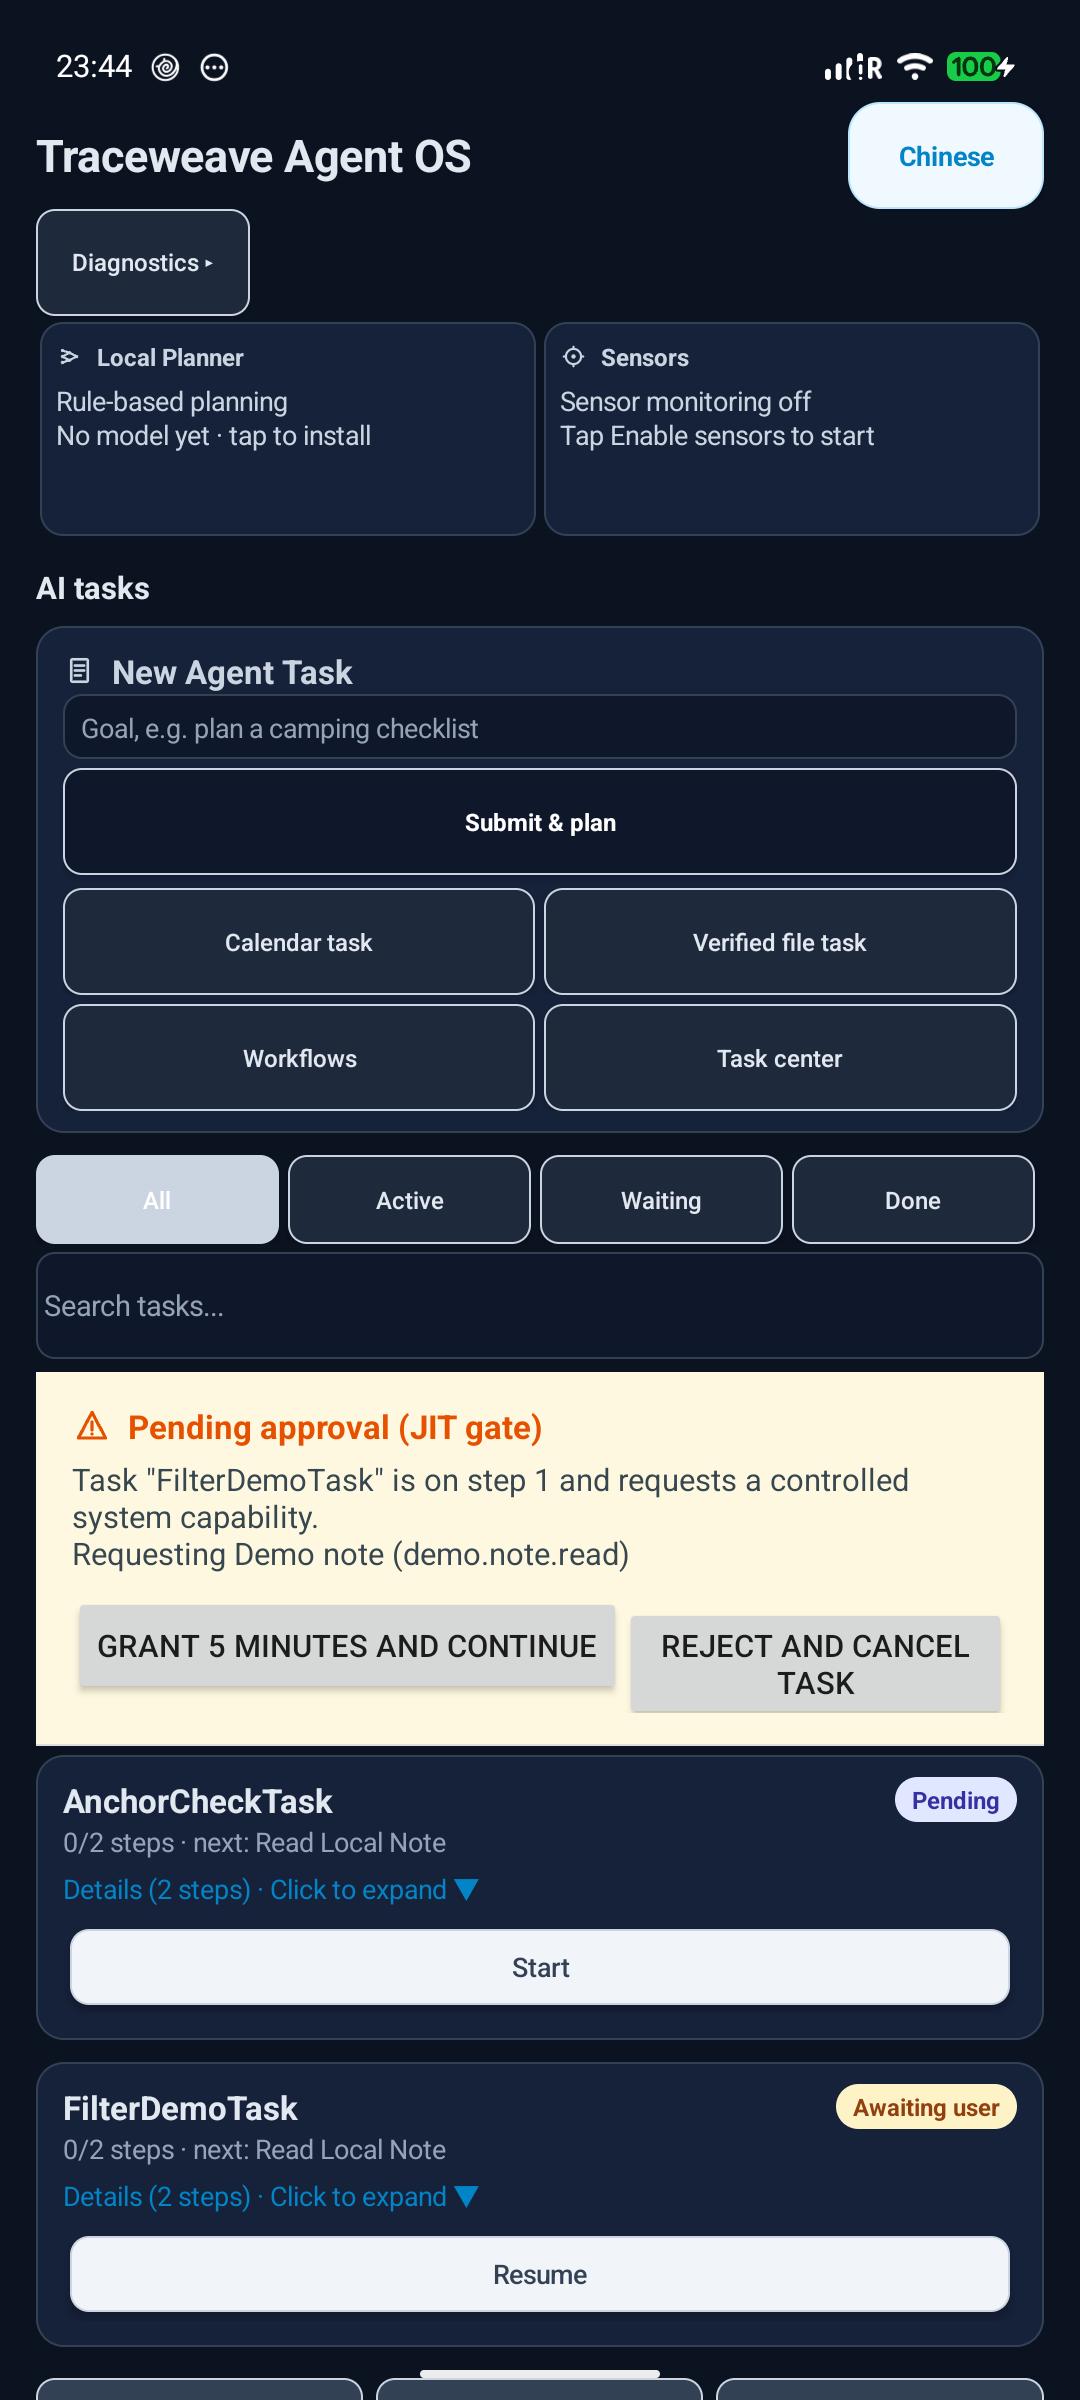
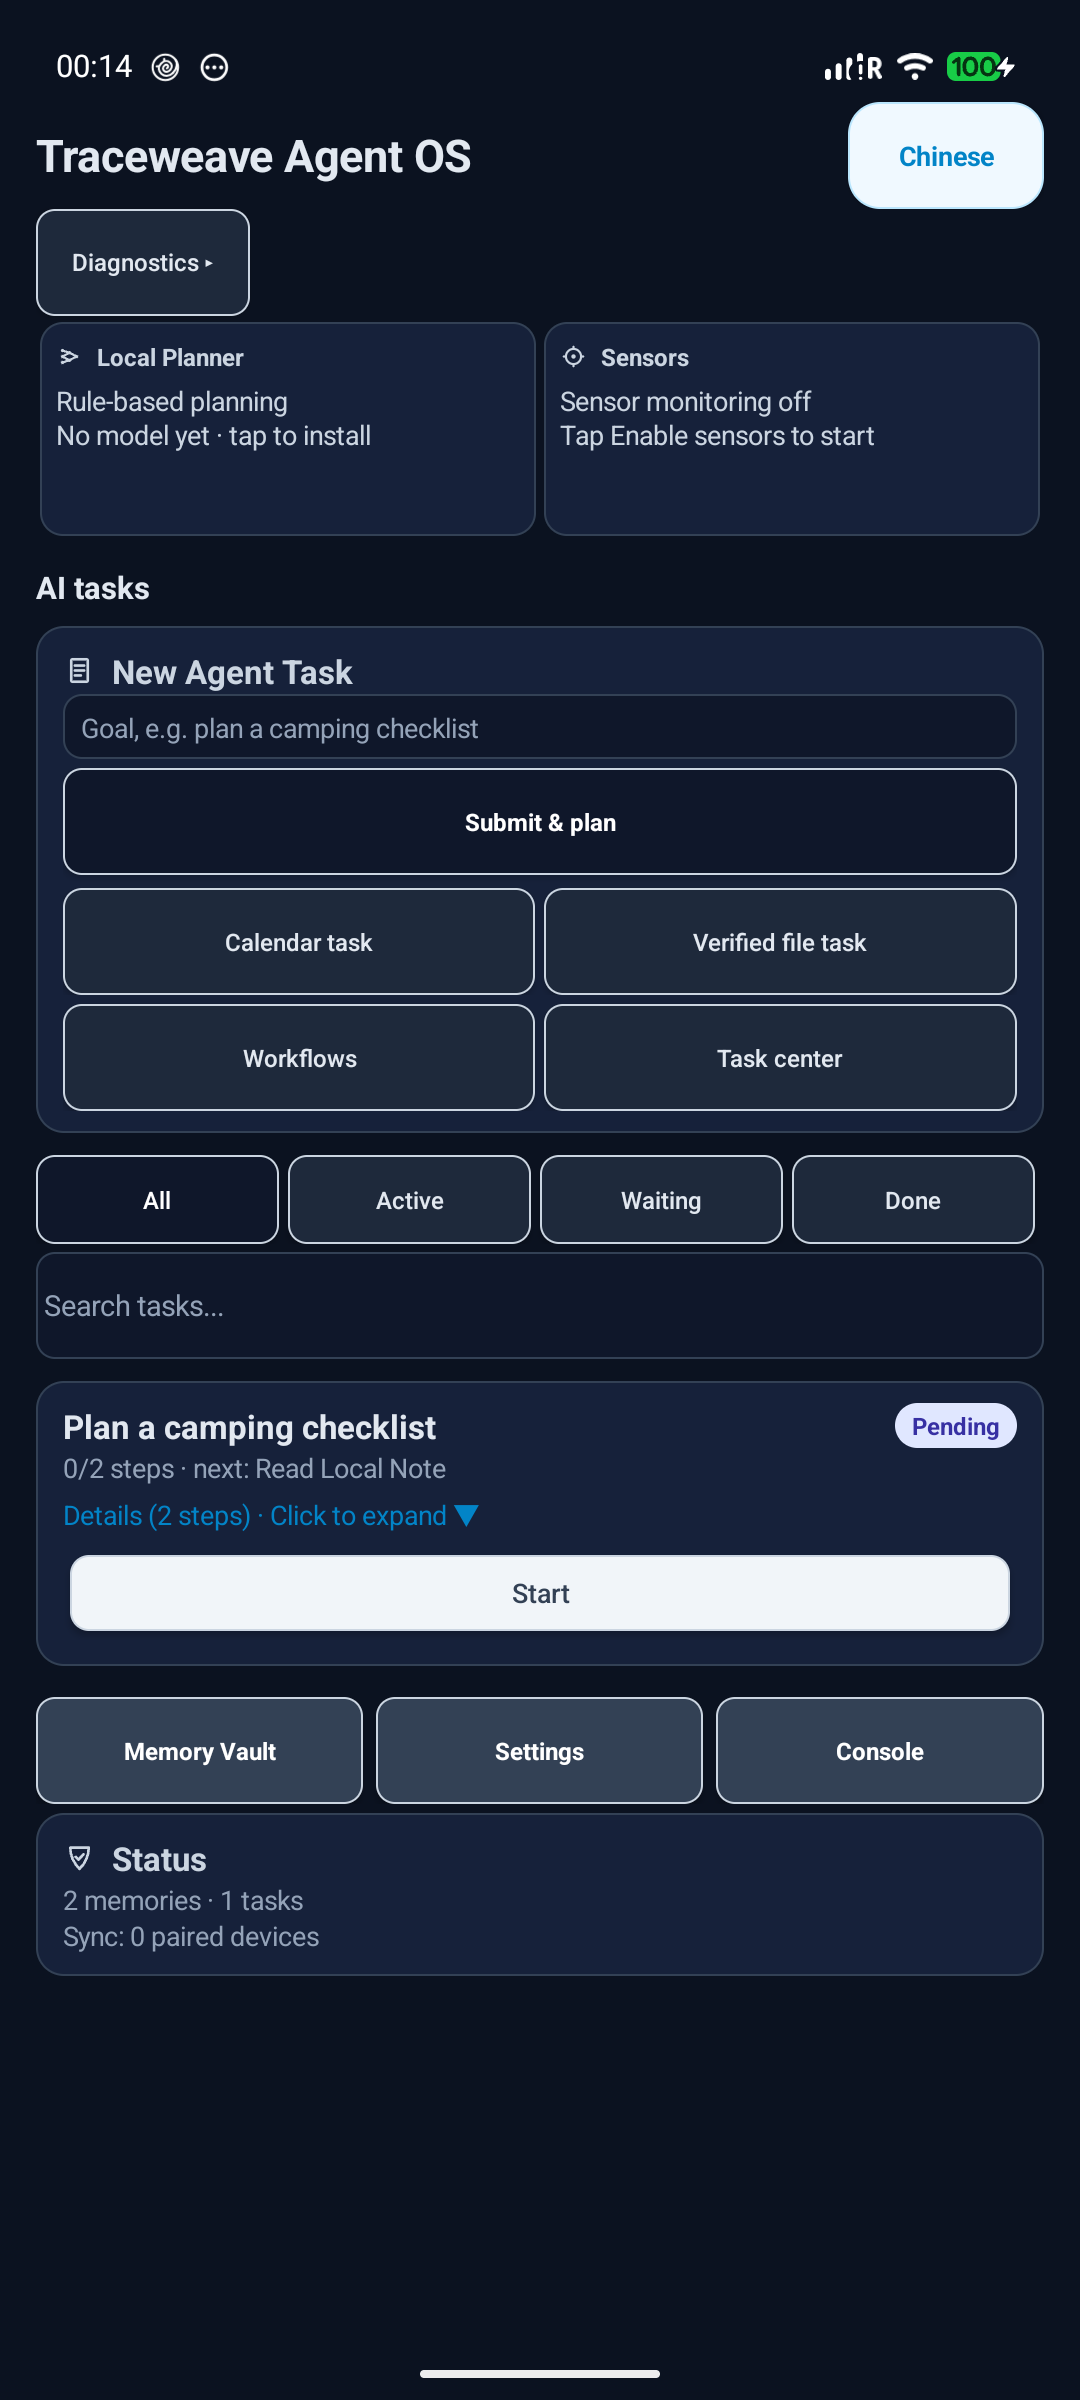
Refresh the two hero screenshots and fix chip contrast

diff --git a/agent_os/android/src/com/inceptless/traceweave/MainActivity.java b/agent_os/android/src/com/inceptless/traceweave/MainActivity.java
@@ -638,7 +638,7 @@ public final class MainActivity extends Activity implements MemoryHost {
         };
         for (String[] entry : filters) {
             Button chip = createCompactActionButton(entry[1], entry[0].equals(taskFilter)
-                ? Ui.cardAccent(this) : Ui.secondaryBg(this),
+                ? 0xFF0F172A : Ui.secondaryBg(this),
                 entry[0].equals(taskFilter) ? 0xFFFFFFFF : Ui.secondaryFg(this),
                 view -> { taskFilter = entry[0]; refreshTasks(); });
             chip.setTextSize(11);

diff --git a/agent_os/android/src/com/inceptless/traceweave/AuditActivity.java b/agent_os/android/src/com/inceptless/traceweave/AuditActivity.java
@@ -173,7 +173,7 @@ public final class AuditActivity extends Activity {
             if (!(child instanceof Button)) continue;
             Button chip = (Button) child;
             boolean selected = category.equals(chip.getTag());
-            chip.setBackgroundColor(selected ? 0xFF334155 : Ui.secondaryBg(this));
+            chip.setBackgroundColor(selected ? 0xFF0F172A : Ui.secondaryBg(this));
             chip.setTextColor(selected ? 0xFFFFFFFF : Ui.secondaryFg(this));
         }
     }
